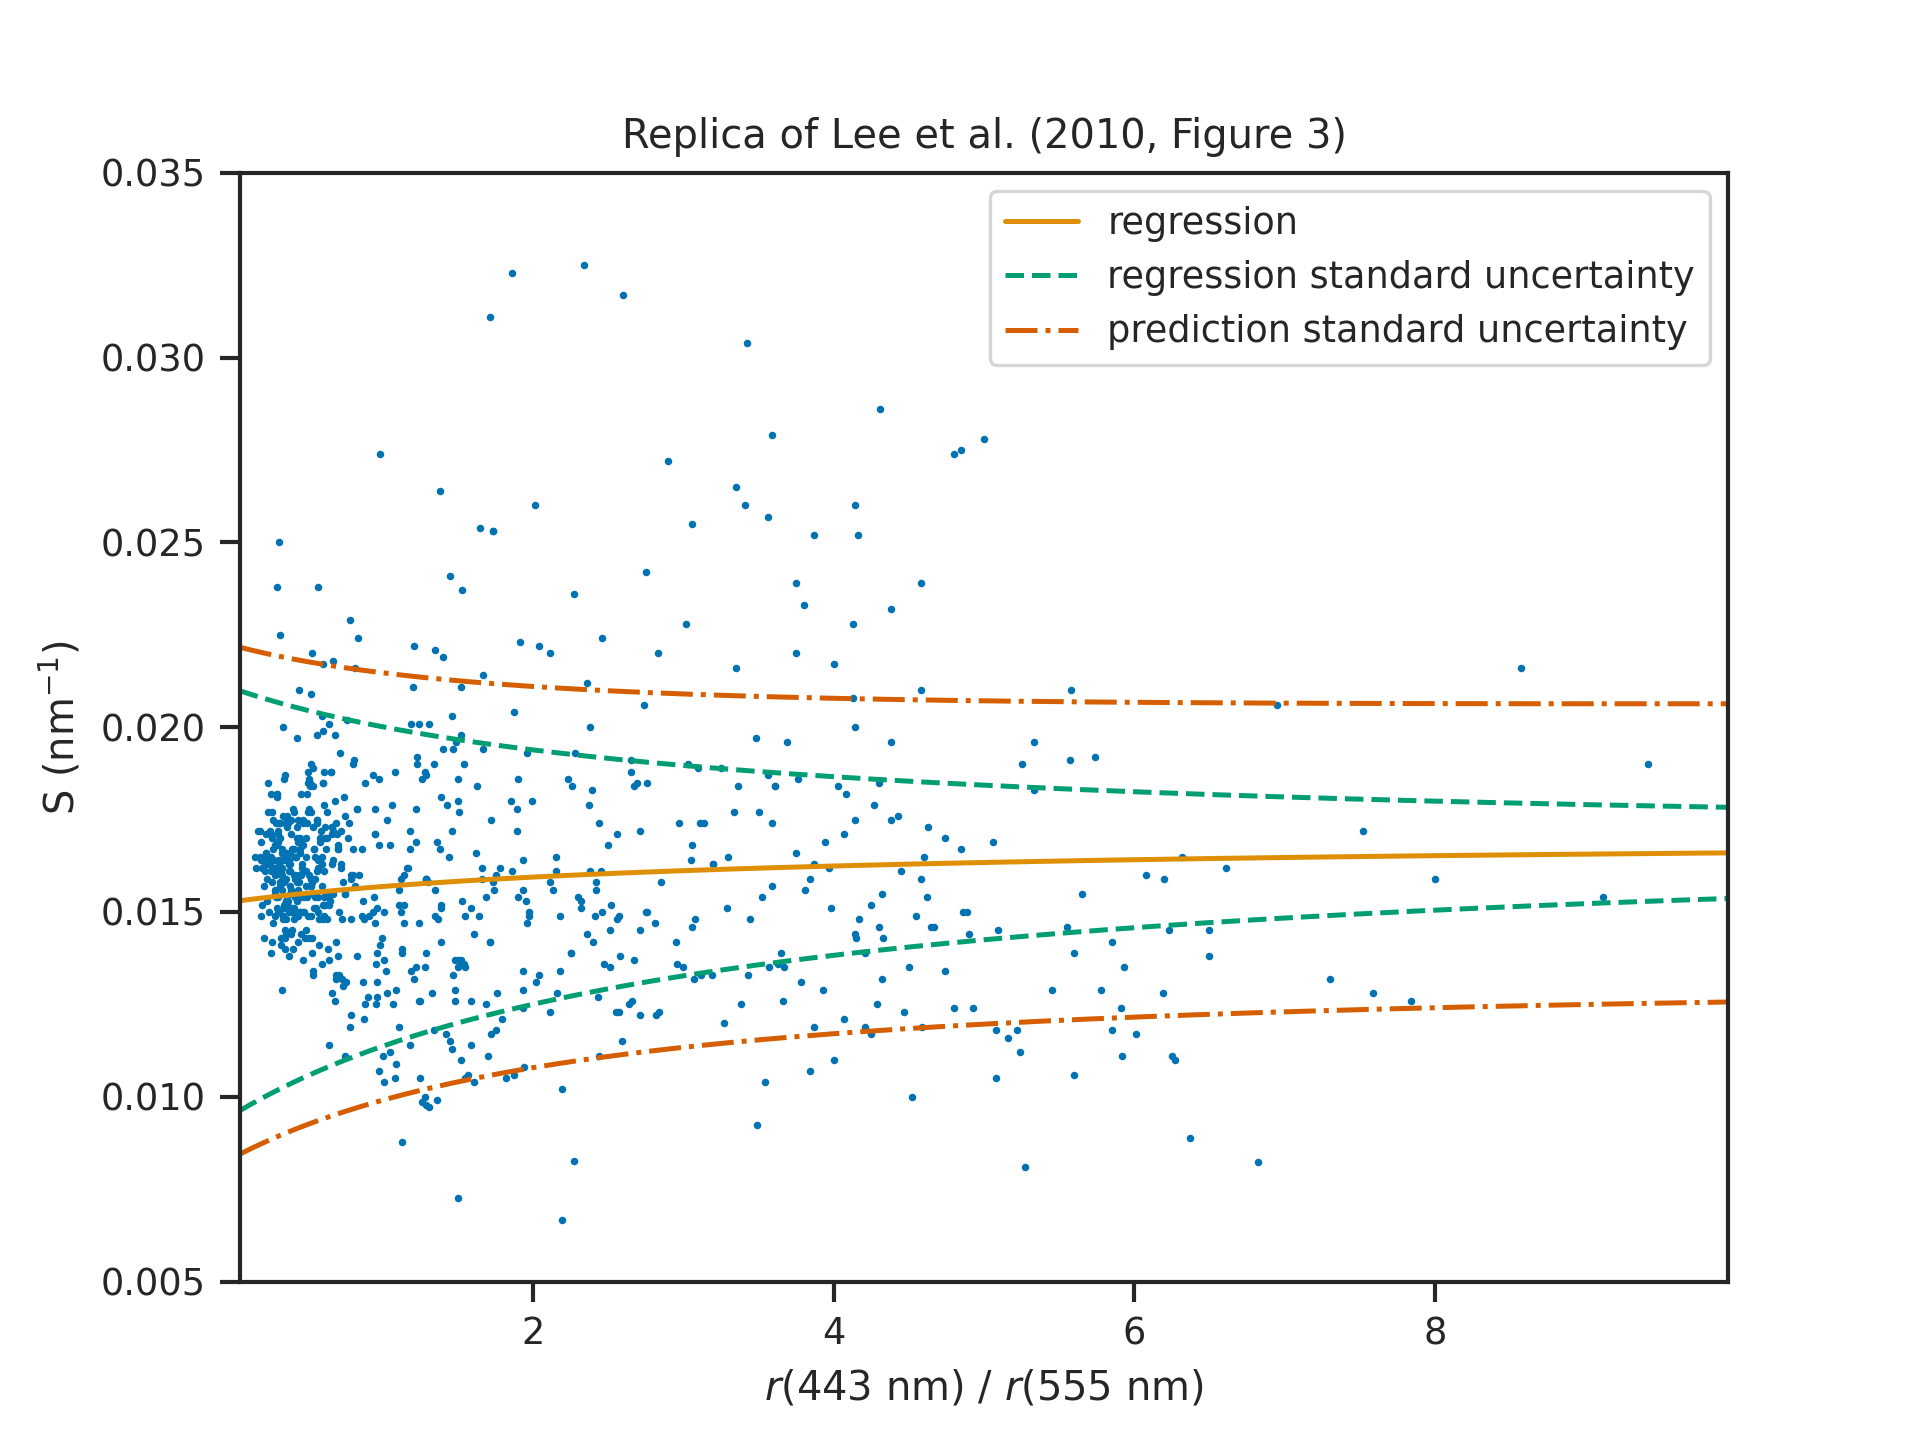
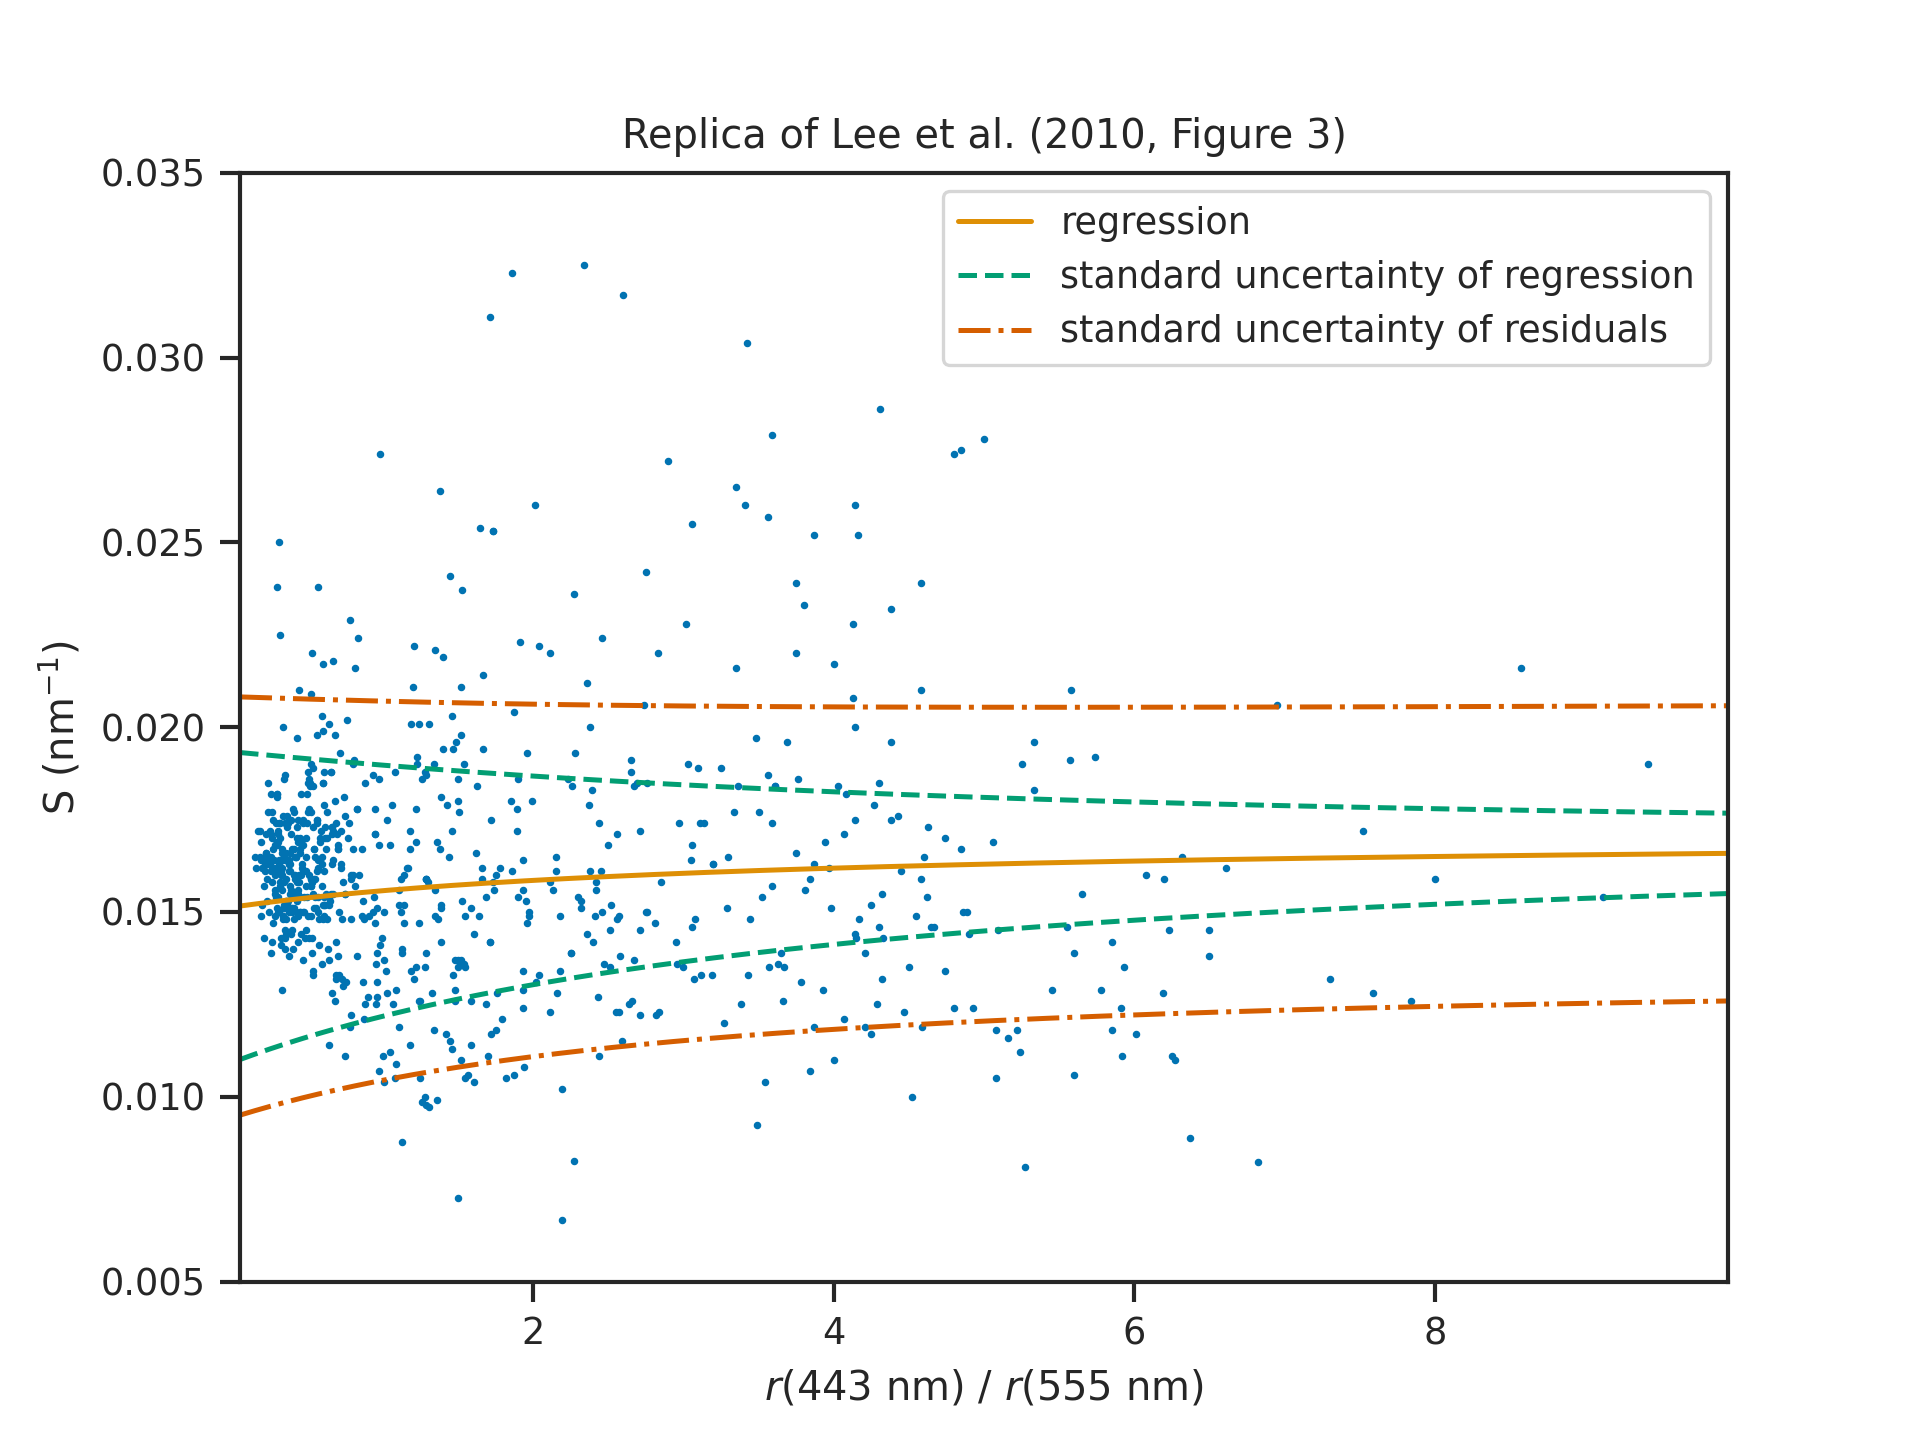
Update: plot legend

diff --git a/uncertaintyx/plot/plots.py b/uncertaintyx/plot/plots.py
@@ -149,7 +149,7 @@ class RegressionPlot(Plotting):
             y_opt - y_unp,
             "--",
             color=self._colors[2],
-            label="regression standard uncertainty",
+            label="standard uncertainty of regression",
         )
         ax.plot(x, y_opt + y_unp, "--", color=self._colors[2])
         ax.plot(
@@ -157,7 +157,7 @@ class RegressionPlot(Plotting):
             y_opt - y_unc,
             "-.",
             color=self._colors[3],
-            label="prediction standard uncertainty",
+            label="standard uncertainty of residuals",
         )
         ax.plot(x, y_opt + y_unc, "-.", color=self._colors[3])
         ax.legend()